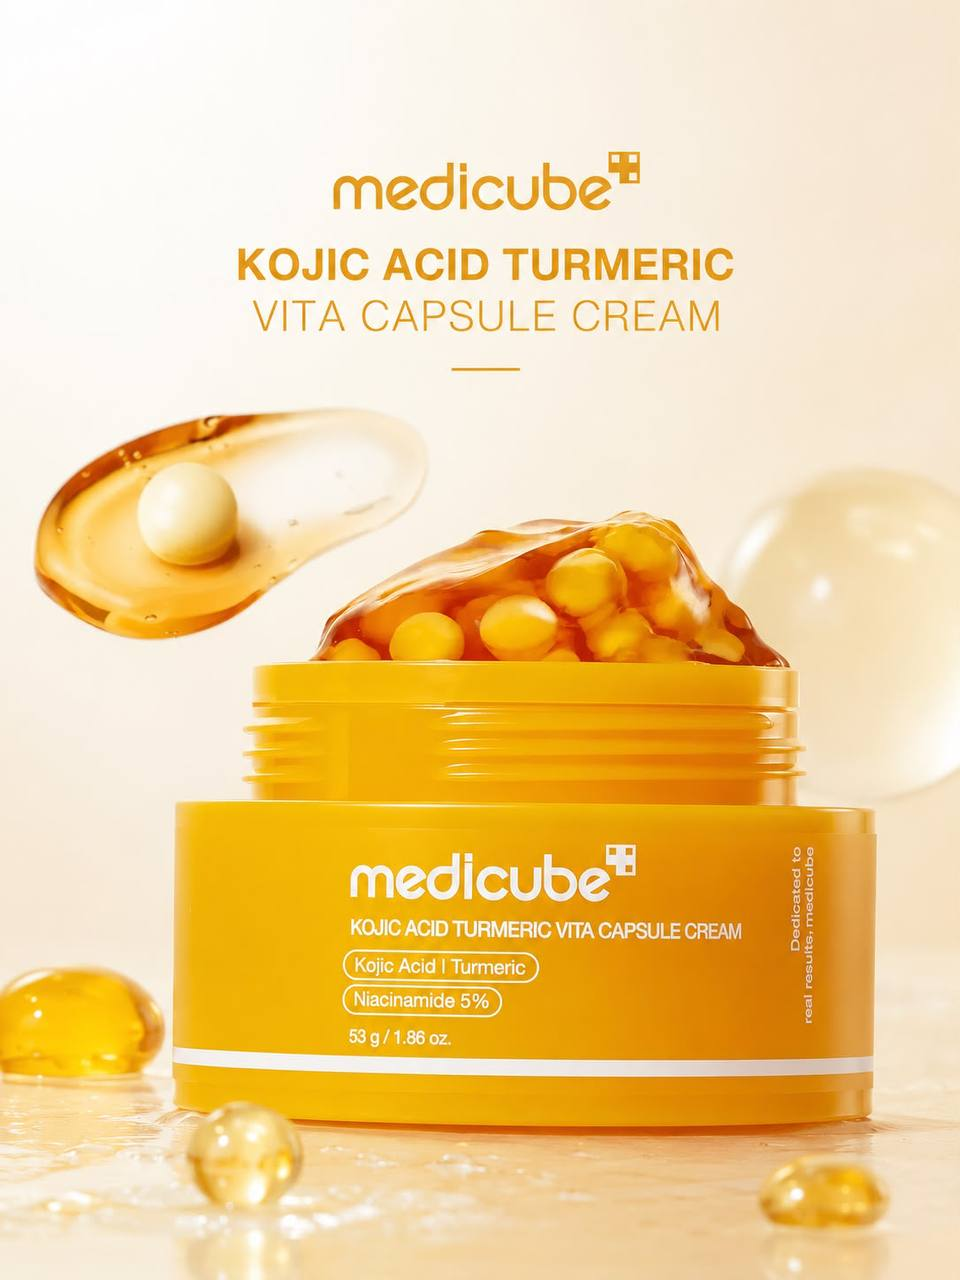
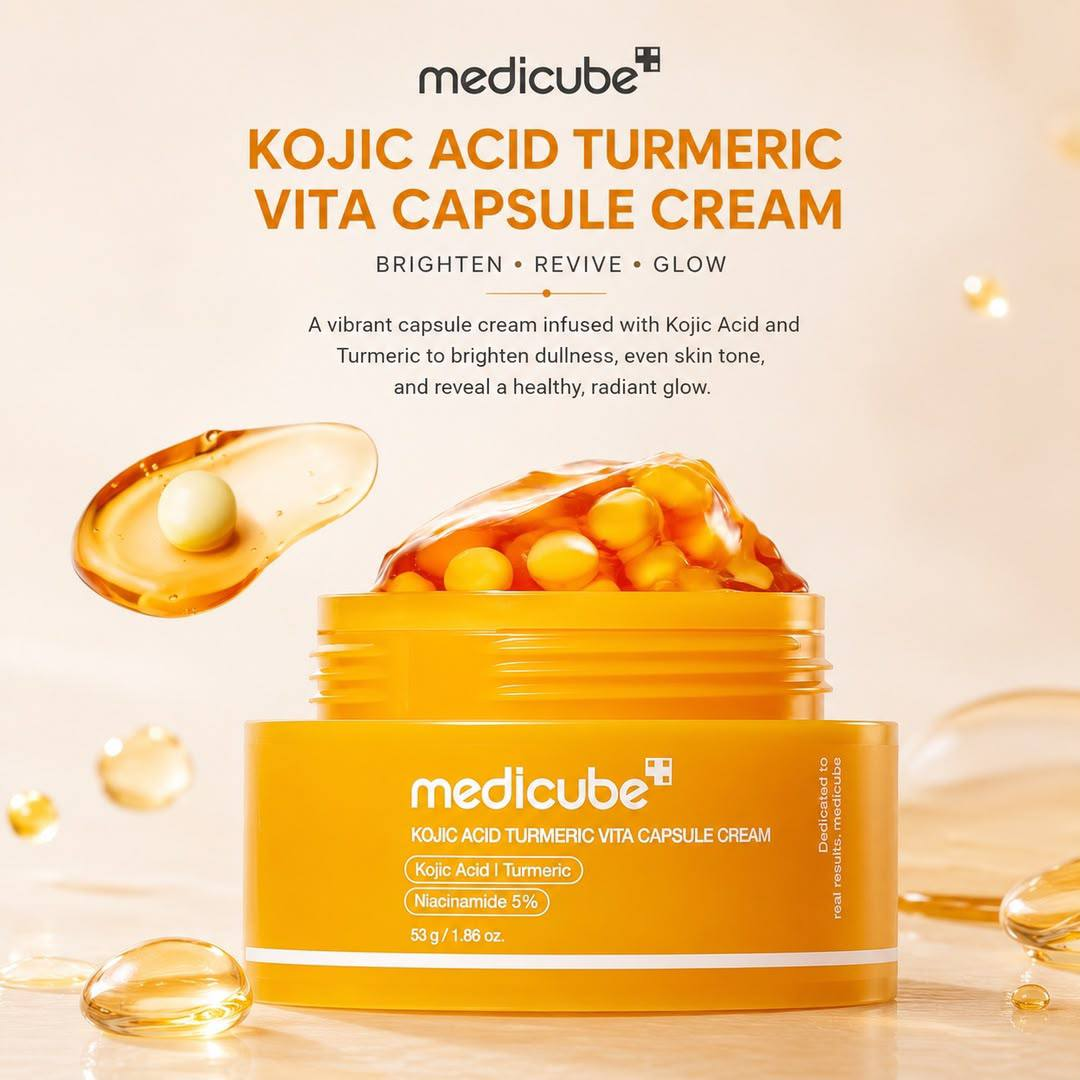
Update Medicube Kojic Acid Turmeric Vita Capsule Cream text (UA/EN/RU) and image

diff --git a/src/data/products.js b/src/data/products.js
@@ -612,21 +612,48 @@ export const medicubeProducts = [
     brand: 'medicube',
     line: 'KOJIC ACID TURMERIC',
     nameEn: 'KOJIC ACID TURMERIC VITA CAPSULE CREAM',
+    nameUa: 'КАПСУЛЬНИЙ КРЕМ ІЗ КОЙЄВОЮ КИСЛОТОЮ ТА КУРКУМОЮ',
     nameRu: 'КАПСУЛЬНЫЙ КРЕМ С КОЙЕВОЙ КИСЛОТОЙ И КУРКУМОЙ',
-    subtitle: 'Крем с койевой кислотой, куркумой и ниацинамидом для ровного тона и сияния',
+    subtitleEn: 'Brightening • Fighting pigmentation • Healthy glow',
+    subtitleUa: 'Освітлення • Боротьба з пігментацією • Здорове сяйво',
+    subtitleRu: 'Осветление • Борьба с пигментацией • Здоровое сияние',
     volume: '53 г',
     price: 2700,
-    image: '/images/123.jpg',
+    image: '/images/medicube-kojic-turmeric-capsule-cream.jpg',
     accentColor: '#b05a7a',
-    description: 'Крем с койевой кислотой, куркумой и ниацинамидом помогает уменьшить пигментацию, выровнять тон кожи и вернуть ей естественное сияние. Интенсивно увлажняет, смягчает и делает кожу более гладкой.',
-    benefits: [
-      { icon: '🎯', title: 'ОСВЕТЛЕНИЕ И ВЫРАВНИВАНИЕ ТОНА', desc: 'Койевая кислота помогает уменьшить пигментные пятна и следы постакне, делая тон кожи более ровным.' },
-      { icon: '✨', title: 'СИЯНИЕ И ЗАЩИТА',                 desc: 'Куркума придает коже естественное сияние и оказывает антиоксидантное действие.' },
-      { icon: '💧', title: 'УВЛАЖНЕНИЕ И ПИТАНИЕ',            desc: 'Капсульная текстура удерживает влагу, смягчает кожу и поддерживает комфорт.' },
-      { icon: '🌟', title: 'ГЛАДКОСТЬ И СВЕЖЕСТЬ',            desc: 'Ниацинамид улучшает текстуру кожи, делая ее более гладкой и ухоженной.' },
+    descriptionEn: 'A capsule cream with Kojic Acid, Turmeric and 5% Niacinamide that helps brighten pigmentation, even out the skin tone and give it a natural glow. Capsules with active ingredients dissolve on application, delivering effective nourishment and care.',
+    descriptionUa: 'Капсульний крем з койєвою кислотою, куркумою та 5% ніацинаміду, який допомагає освітлити пігментацію, вирівняти тон шкіри та надати їй природного сяйва. Капсули з активними компонентами розчиняються під час нанесення, забезпечуючи ефективне живлення та догляд.',
+    descriptionRu: 'Капсульный крем с койевой кислотой, куркумой и 5% ниацинамида, который помогает осветлить пигментацию, выровнять тон кожи и придать ей естественное сияние. Капсулы с активными компонентами растворяются при нанесении, обеспечивая эффективное питание и уход.',
+    benefitsEn: [
+      { icon: '🎯', title: 'BRIGHTENS PIGMENTATION', desc: 'Brightens pigment spots and post-acne marks.' },
+      { icon: '✨', title: 'EVENS TONE & ADDS GLOW', desc: 'Evens out the skin tone and restores a natural glow.' },
+      { icon: '🌟', title: 'REDUCES DULLNESS', desc: 'Reduces dullness and improves the complexion.' },
+      { icon: '💧', title: 'HYDRATES & STRENGTHENS', desc: 'Intensively hydrates and strengthens the protective barrier.' },
+      { icon: '🍃', title: 'SMOOTH, SOFT SKIN', desc: 'Makes skin smooth, soft and more supple.' },
     ],
-    ingredients: ['Койевая кислота', 'Экстракт куркумы', 'Ниацинамид 5%', 'Комплекс увлажняющих компонентов'],
-    skinTypes: ['Все типы кожи', 'Тусклая кожа', 'Кожа с пигментацией и постакне', 'Неровный тон кожи', 'Для ежедневного ухода'],
+    benefitsUa: [
+      { icon: '🎯', title: 'ОСВІТЛЮЄ ПІГМЕНТАЦІЮ', desc: 'Освітлює пігментні плями та сліди постакне.' },
+      { icon: '✨', title: 'ВИРІВНЮЄ ТОН ТА НАДАЄ СЯЙВО', desc: 'Вирівнює тон шкіри та повертає природне сяйво.' },
+      { icon: '🌟', title: 'ЗМЕНШУЄ ТЬМЯНІСТЬ', desc: 'Зменшує тьмяність і покращує колір обличчя.' },
+      { icon: '💧', title: 'ЗВОЛОЖУЄ ТА ЗМІЦНЮЄ', desc: 'Інтенсивно зволожує та зміцнює захисний бар\'єр.' },
+      { icon: '🍃', title: 'ГЛАДКА ТА М\'ЯКА ШКІРА', desc: 'Робить шкіру гладенькою, м\'якою та більш пружною.' },
+    ],
+    benefitsRu: [
+      { icon: '🎯', title: 'ОСВЕТЛЯЕТ ПИГМЕНТАЦИЮ', desc: 'Осветляет пигментные пятна и следы постакне.' },
+      { icon: '✨', title: 'ВЫРАВНИВАЕТ ТОН И ПРИДАЕТ СИЯНИЕ', desc: 'Выравнивает тон кожи и возвращает естественное сияние.' },
+      { icon: '🌟', title: 'УМЕНЬШАЕТ ТУСКЛОСТЬ', desc: 'Уменьшает тусклость и улучшает цвет лица.' },
+      { icon: '💧', title: 'УВЛАЖНЯЕТ И УКРЕПЛЯЕТ', desc: 'Интенсивно увлажняет и укрепляет защитный барьер.' },
+      { icon: '🍃', title: 'ГЛАДКАЯ И МЯГКАЯ КОЖА', desc: 'Делает кожу гладкой, мягкой и более упругой.' },
+    ],
+    ingredientsEn: ['Kojic Acid – brightens pigmentation', 'Turmeric – gives a natural glow and antioxidant care', 'Niacinamide 5% – evens the tone and improves texture', 'Moisturizing complex – hydrates and strengthens the skin'],
+    ingredientsUa: ['Койєва кислота – освітлює пігментацію', 'Куркума – надає природного сяйва та антиоксидантного догляду', 'Ніацинамід 5% – вирівнює тон і покращує текстуру', 'Зволожувальний комплекс – зволожує та зміцнює шкіру'],
+    ingredientsRu: ['Койевая кислота – осветляет пигментацию', 'Куркума – придает естественное сияние и антиоксидантный уход', 'Ниацинамид 5% – выравнивает тон и улучшает текстуру', 'Увлажняющий комплекс – увлажняет и укрепляет кожу'],
+    skinTypesEn: ['All skin types, especially dull skin, with pigmentation, post-acne, uneven tone and age-related changes'],
+    skinTypesUa: ['Усі типи шкіри, особливо тьмяна, з пігментацією, постакне, нерівним тоном та віковими змінами'],
+    skinTypesRu: ['Все типы кожи, особенно тусклая, с пигментацией, постакне, неровным тоном и возрастными изменениями'],
+    usageEn: 'After cleansing, toner and serum, apply the needed amount of cream to the face and neck. Spread with light massaging movements until fully absorbed so the capsules dissolve completely. Use morning and evening. During the day, always apply sunscreen.',
+    usageUa: 'Після очищення, тонера та сироватки нанесіть необхідну кількість крему на обличчя та шию. Легкими масажними рухами розподіліть до повного вбирання, щоб капсули повністю розчинилися. Використовуйте вранці та ввечері. У денний час обов\'язково наносьте сонцезахисний крем.',
+    usageRu: 'После очищения, тонера и сыворотки нанесите необходимое количество крема на лицо и шею. Легкими массажными движениями распределите до полного впитывания, чтобы капсулы полностью растворились. Используйте утром и вечером. В дневное время обязательно наносите солнцезащитный крем.',
   },
   {
     id: 'medicube-exosome-cica-serum',
